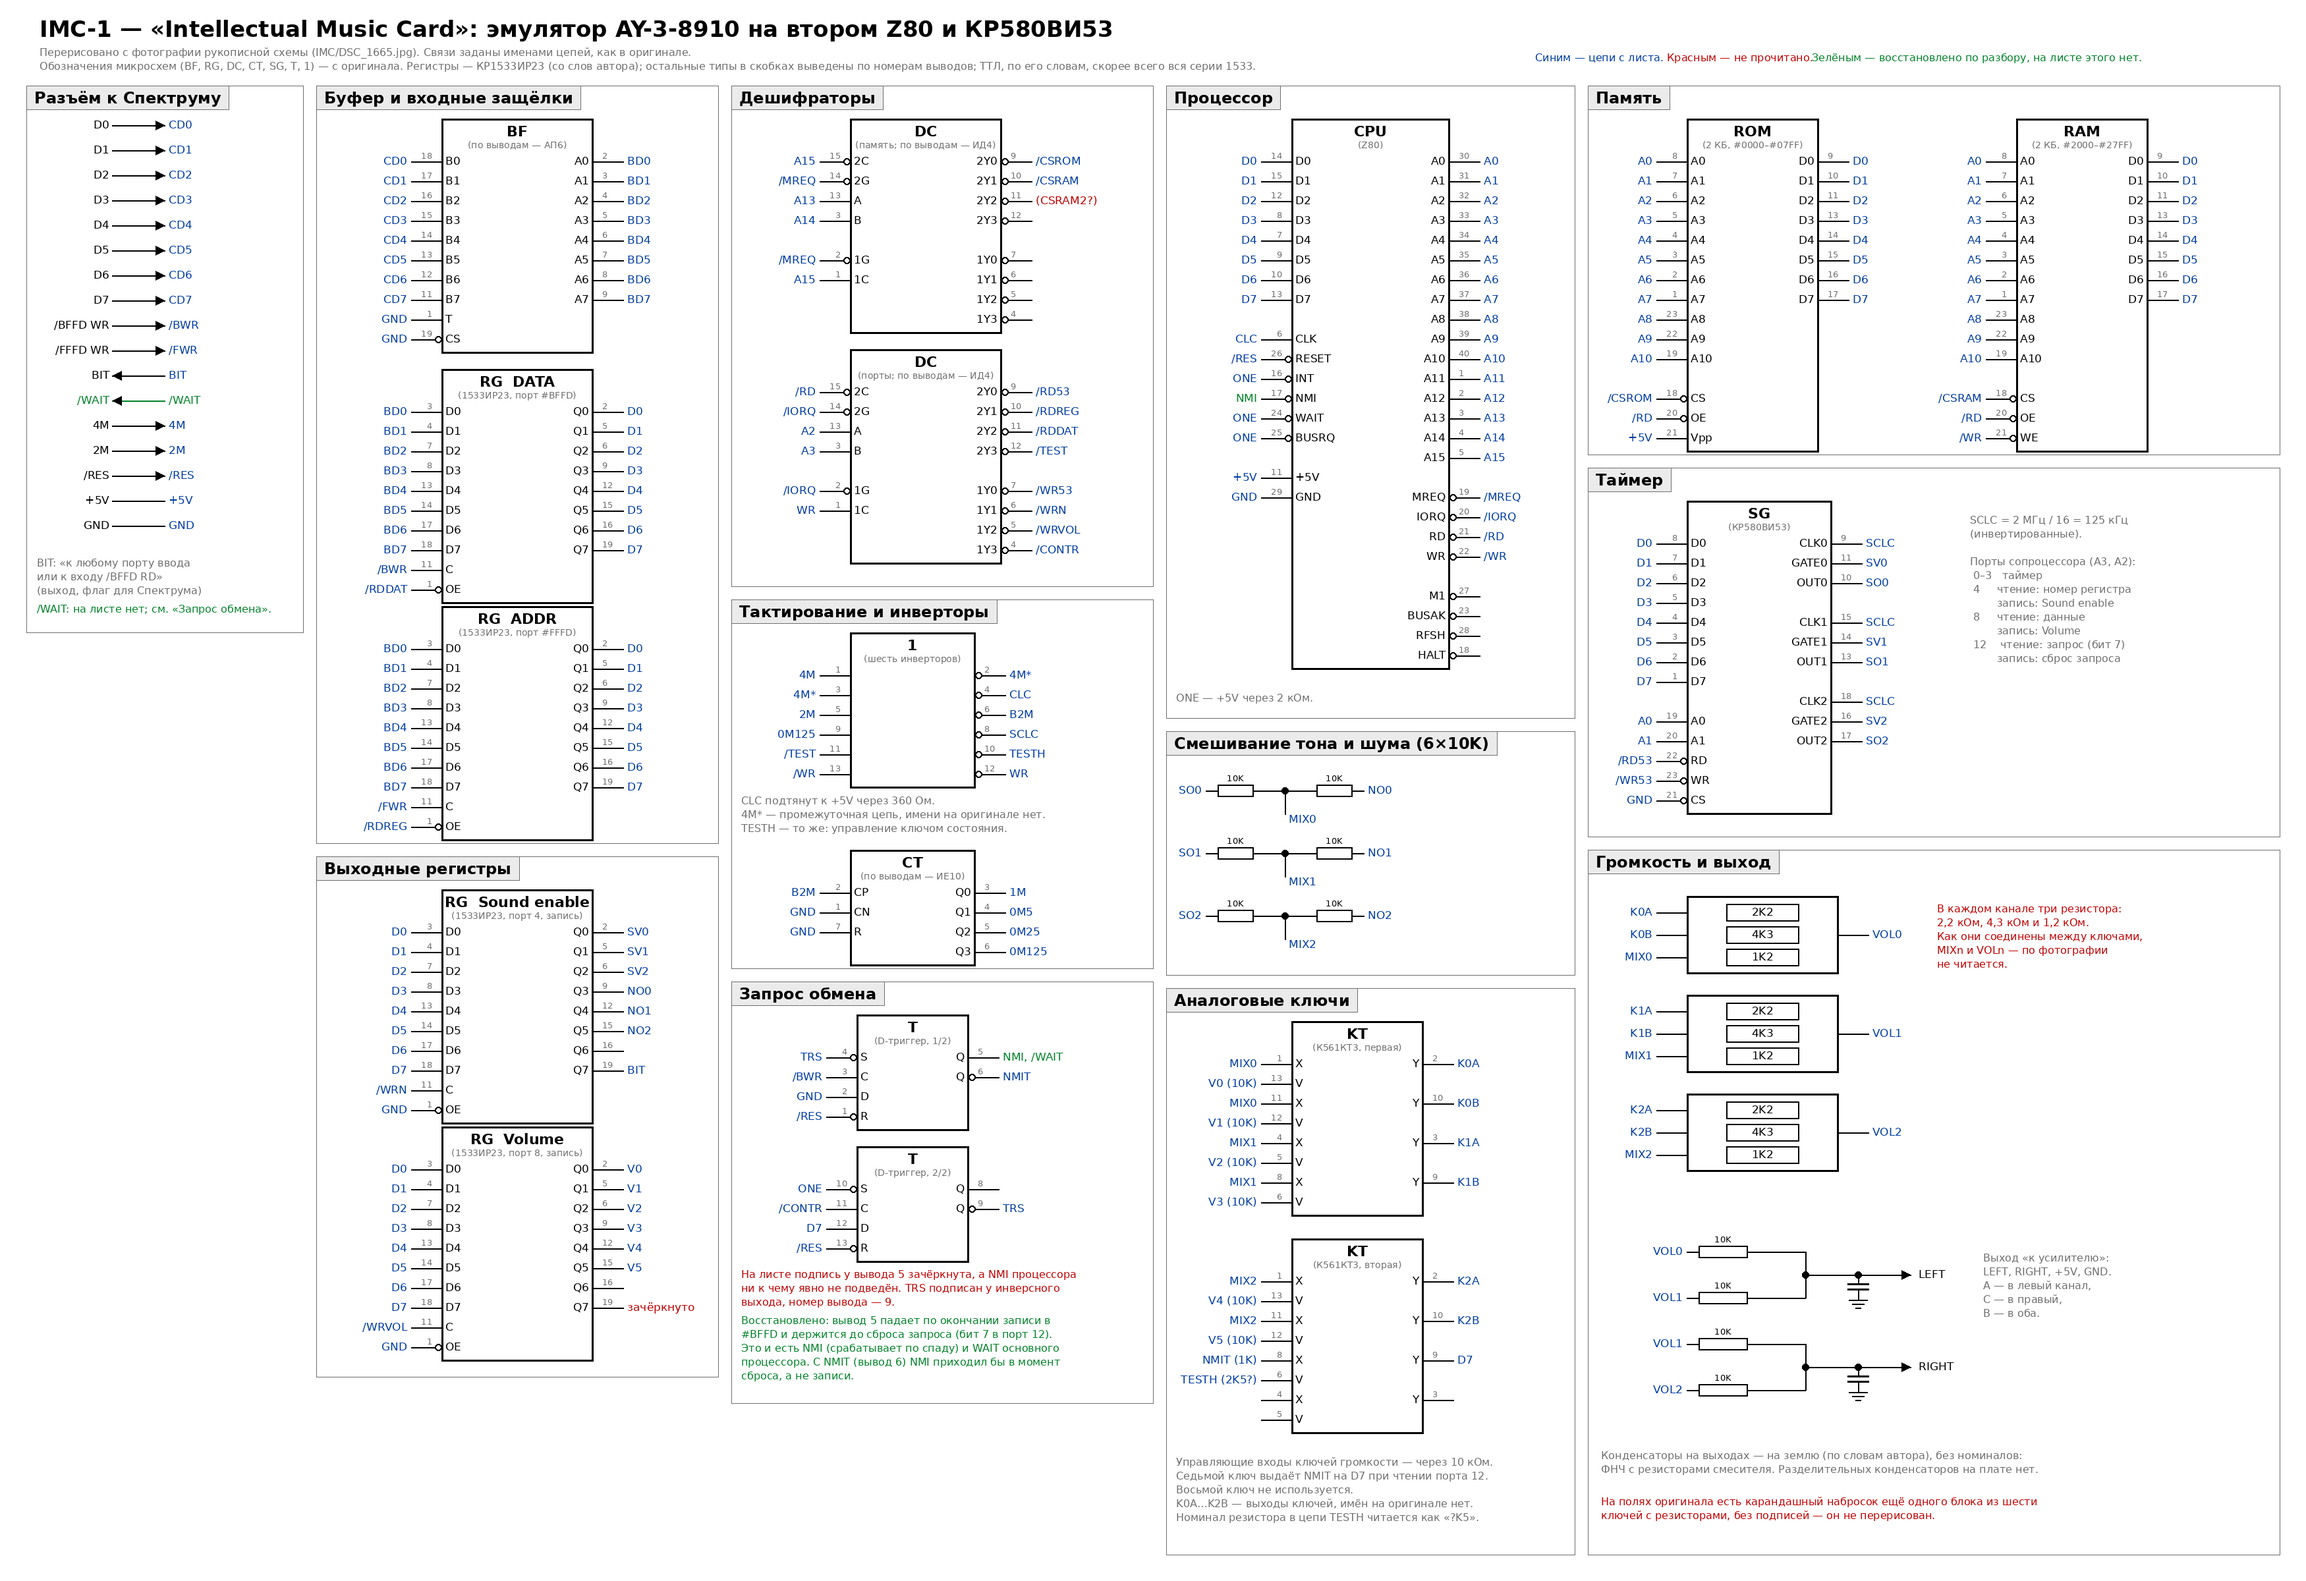
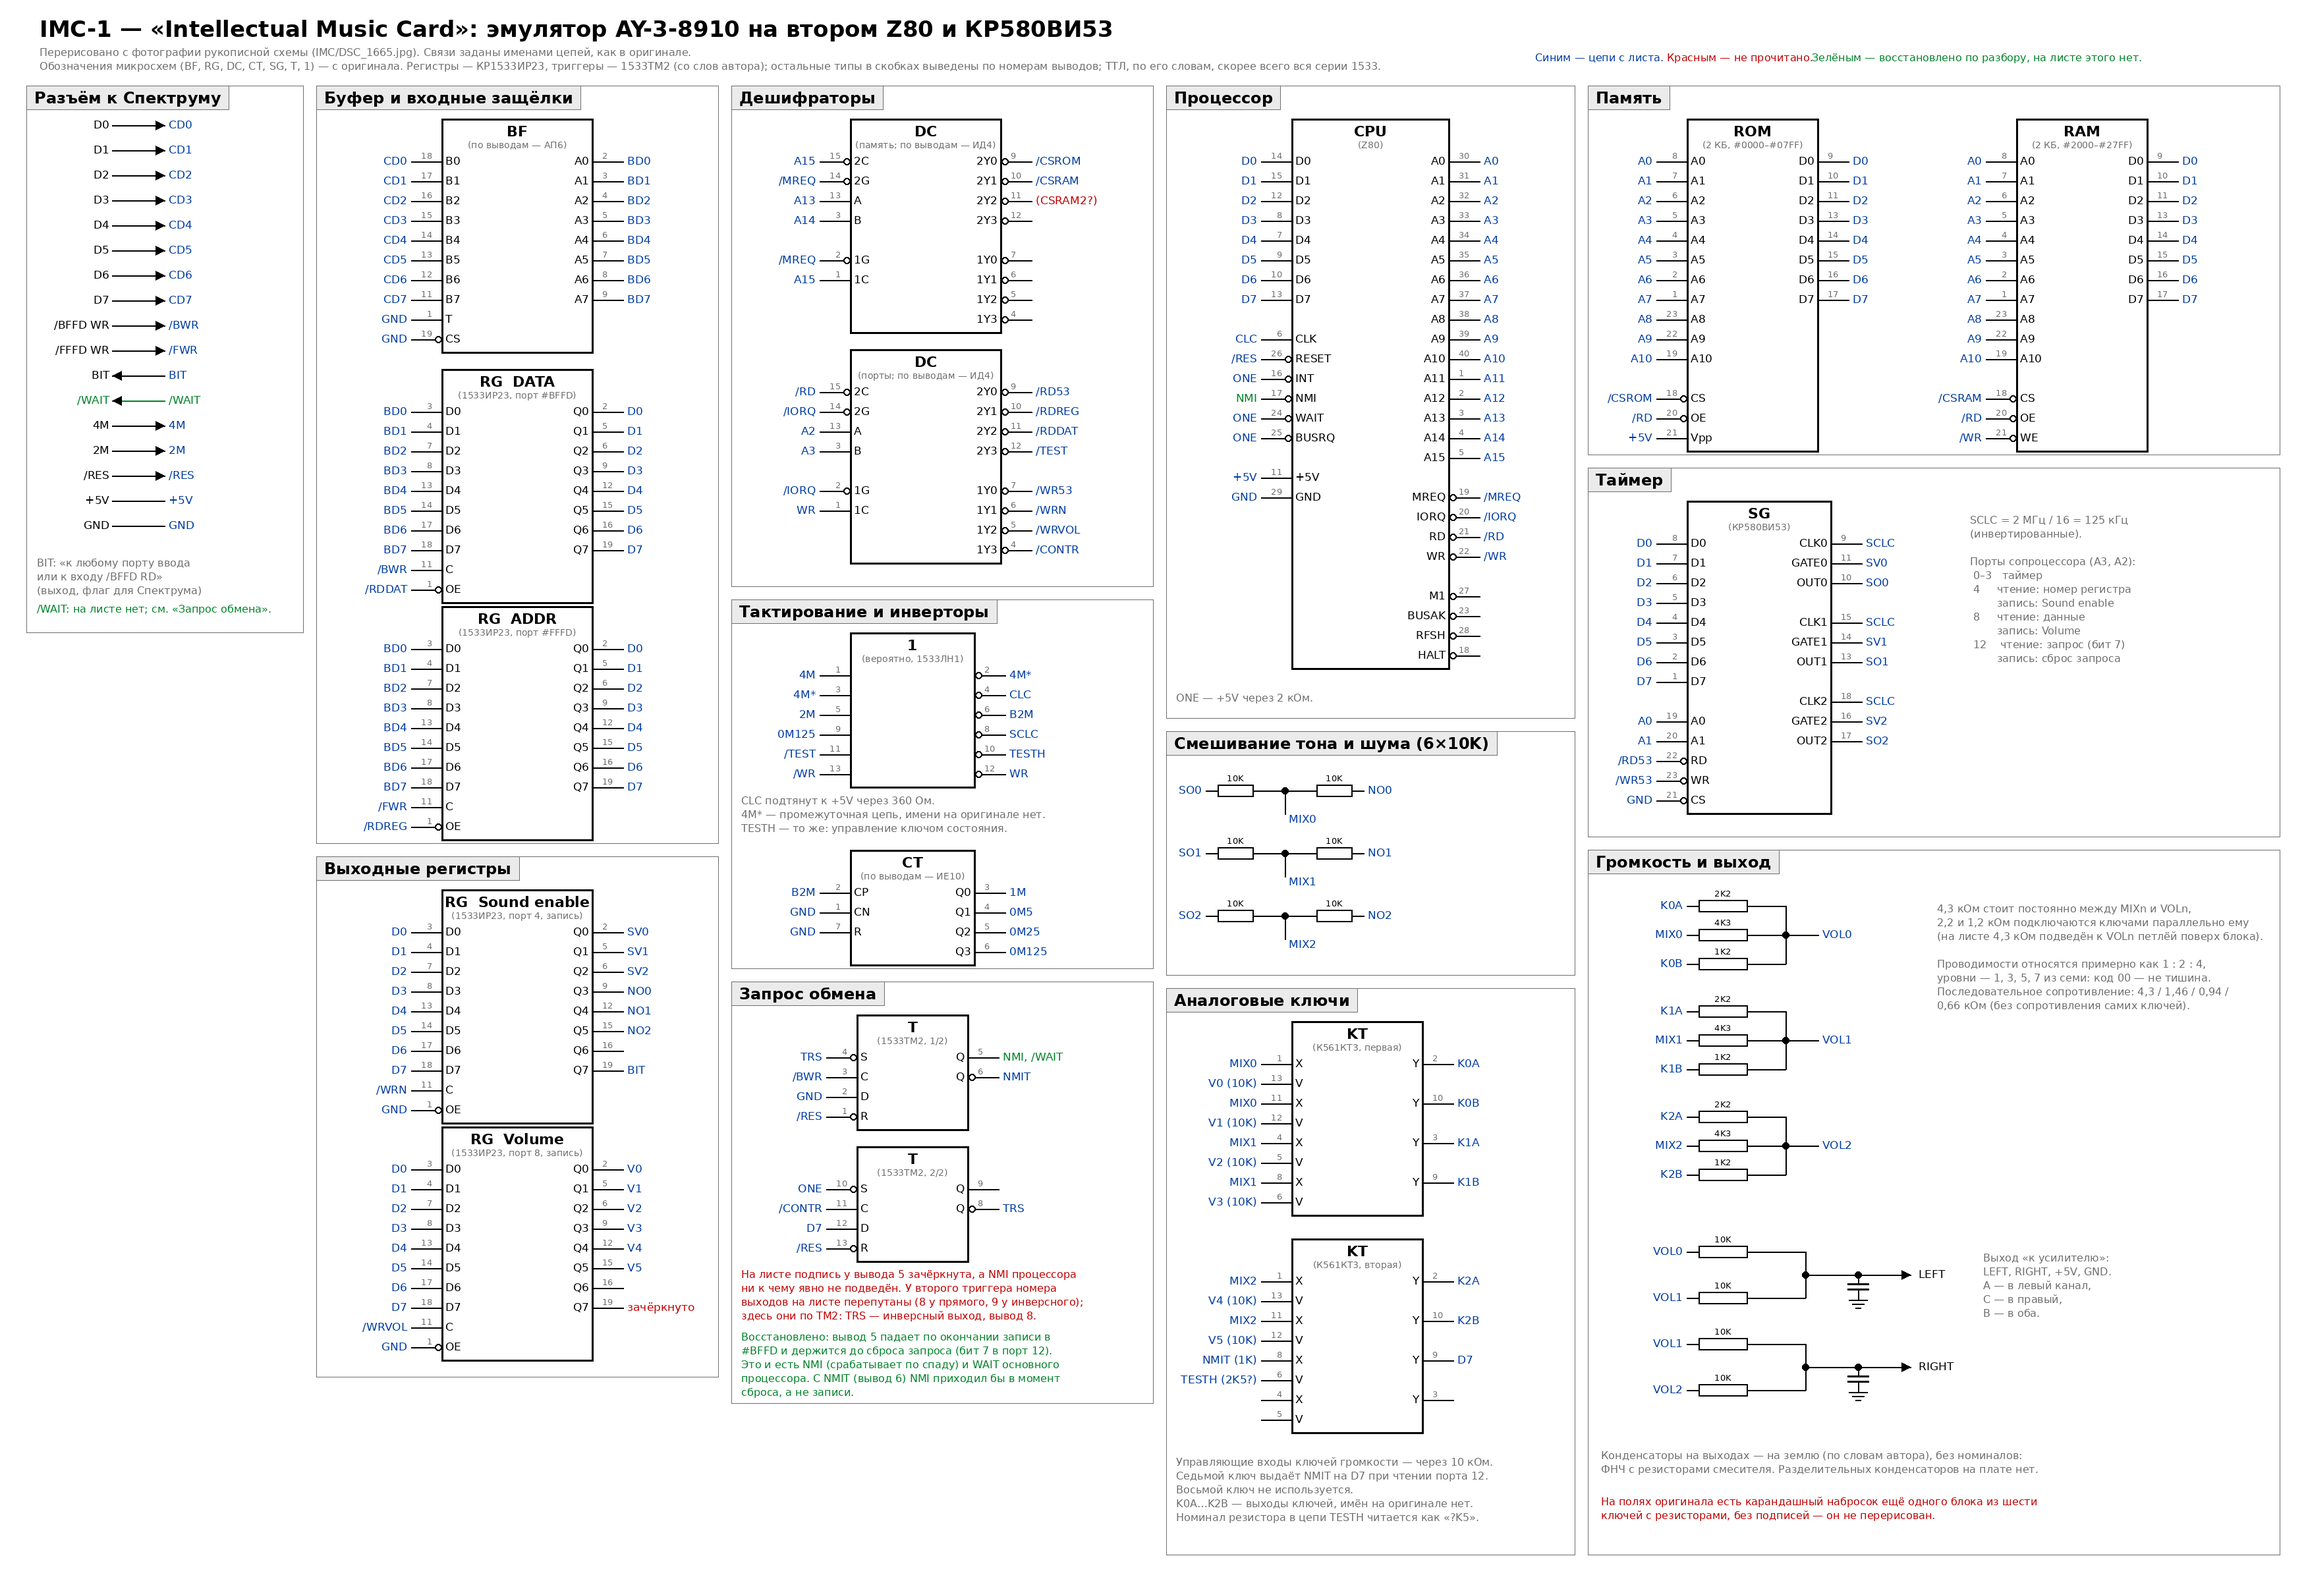
IMC-1: volume network wiring, 1533TM2 and 1533LN1
The volume resistors are readable on the photo after all: 4.3k sits
permanently between MIXn and VOLn, and the two switches of a channel
add 2.2k and 1.2k in parallel with it. The conductances are about
1 : 2 : 4, so this is a 3-bit DAC with the lowest bit always on: four
levels and no silence. A channel goes quiet only through the mixer
(register 7 drives the timer gates). With 5k in front and 10k behind,
the steps come out only 1-2 dB apart by calculation.

Per the author the dual flip-flop is almost certainly a 1533TM2 and the
inverters probably a 1533LN1. The sheet has the output pin numbers of
the second flip-flop swapped (8 on Q, 9 on /Q); the redrawn schematic
now follows the TM2 pinout, with TRS on the inverted output, pin 8,
which is also what the firmware needs.

Changed region(s): [[0.7163, 0.5625, 0.8097, 0.75], [0.8409, 0.5625, 0.9654, 0.6562], [0.3114, 0.8125, 0.4671, 0.875]]

diff --git a/IMC/draw_schematic.py b/IMC/draw_schematic.py
@@ -113,7 +113,7 @@ d.text((2330, 78), 'Синим — цепи с листа.   ', font=F_NOTE, fil
 d.text((2530, 78), 'Красным — не прочитано.   ', font=F_NOTE, fill=RED)
 d.text((2750, 78), 'Зелёным — восстановлено по разбору, на листе этого нет.', font=F_NOTE, fill=GREEN)
 note(60, 70, ['Перерисовано с фотографии рукописной схемы (IMC/DSC_1665.jpg). Связи заданы именами цепей, как в оригинале.',
-              'Обозначения микросхем (BF, RG, DC, CT, SG, T, 1) — с оригинала. Регистры — КР1533ИР23 (со слов автора); остальные типы в скобках выведены по номерам выводов; ТТЛ, по его словам, скорее всего вся серии 1533.'], GREY)
+              'Обозначения микросхем (BF, RG, DC, CT, SG, T, 1) — с оригинала. Регистры — КР1533ИР23, триггеры — 1533ТМ2 (со слов автора); остальные типы в скобках выведены по номерам выводов; ТТЛ, по его словам, скорее всего вся серии 1533.'], GREY)
 
 # ---------------------------------------------------------------- connector
 frame(40, 130, 420, 830, 'Разъём к Спектруму')
@@ -169,7 +169,7 @@ chip(1290, 530, 230, 'DC', '(порты; по выводам — ИД4)',
 
 # ---------------------------------------------------------------- clocks and inverters
 frame(1110, 910, 640, 560, 'Тактирование и инверторы')
-chip(1290, 960, 190, '1', '(шесть инверторов)',
+chip(1290, 960, 190, '1', '(вероятно, 1533ЛН1)',
      [(1, '', '4M'), (3, '', '4M*'), (5, '', '2M'), (9, '', '0M125'), (11, '', '/TEST'), (13, '', '/WR')],
      [(2, '/', '4M*'), (4, '/', 'CLC'), (6, '/', 'B2M'), (8, '/', 'SCLC'), (10, '/', 'TESTH'), (12, '/', 'WR')])
 note(1125, 1206, ['CLC подтянут к +5V через 360 Ом.', '4M* — промежуточная цепь, имени на оригинале нет.',
@@ -180,16 +180,17 @@ chip(1290, 1290, 190, 'CT', '(по выводам — ИЕ10)',
 
 # ---------------------------------------------------------------- request logic
 frame(1110, 1490, 640, 640, 'Запрос обмена')
-chip(1300, 1540, 170, 'T', '(D-триггер, 1/2)',
+chip(1300, 1540, 170, 'T', '(1533ТМ2, 1/2)',
      [(4, '/S', 'TRS'), (3, 'C', '/BWR'), (2, 'D', 'GND'), (1, '/R', '/RES')],
      [(5, 'Q', 'NMI, /WAIT', GREEN), (6, '/Q', 'NMIT')])
-chip(1300, 1740, 170, 'T', '(D-триггер, 2/2)',
+chip(1300, 1740, 170, 'T', '(1533ТМ2, 2/2)',
      [(10, '/S', 'ONE'), (11, 'C', '/CONTR'), (12, 'D', 'D7'), (13, '/R', '/RES')],
-     [(8, 'Q', ''), (9, '/Q', 'TRS')])
+     [(9, 'Q', ''), (8, '/Q', 'TRS')])
 note(1125, 1925, ['На листе подпись у вывода 5 зачёркнута, а NMI процессора',
-                  'ни к чему явно не подведён. TRS подписан у инверсного',
-                  'выхода, номер вывода — 9.'])
-note(1125, 1995, ['Восстановлено: вывод 5 падает по окончании записи в',
+                  'ни к чему явно не подведён. У второго триггера номера',
+                  'выходов на листе перепутаны (8 у прямого, 9 у инверсного);',
+                  'здесь они по ТМ2: TRS — инверсный выход, вывод 8.'])
+note(1125, 2020, ['Восстановлено: вывод 5 падает по окончании записи в',
                   '#BFFD и держится до сброса запроса (бит 7 в порт 12).',
                   'Это и есть NMI (срабатывает по спаду) и WAIT основного',
                   'процессора. С NMIT (вывод 6) NMI приходил бы в момент',
@@ -267,18 +268,24 @@ note(1785, 2210, ['Управляющие входы ключей громкос
 # ---------------------------------------------------------------- volume network and output
 frame(2410, 1290, 1050, 1070, 'Громкость и выход')
 for i in range(3):
-    yy = 1360 + i * 150
-    d.rectangle((2560, yy, 2790, yy + 118), outline=BLACK, width=3)
-    for k, r in enumerate(('2K2', '4K3', '1K2')):
-        d.rectangle((2620, yy + 12 + k * 34, 2730, yy + 38 + k * 34), outline=BLACK, width=2)
-        d.text((2675 - tw(r, F_PIN) / 2, yy + 14 + k * 34), r, font=F_PIN, fill=BLACK)
-    for k, n in enumerate(('K%dA' % i, 'K%dB' % i, 'MIX%d' % i)):
-        d.line((2514, yy + 25 + k * 34, 2560, yy + 25 + k * 34), fill=BLACK, width=2)
-        net(2514, yy + 25 + k * 34, n, right=True)
-    d.line((2790, yy + 59, 2836, yy + 59), fill=BLACK, width=2)
-    net(2836, yy + 59, 'VOL%d' % i)
-note(2940, 1370, ['В каждом канале три резистора:', '2,2 кОм, 4,3 кОм и 1,2 кОм.',
-                  'Как они соединены между ключами,', 'MIXn и VOLn — по фотографии', 'не читается.'])
+    yy = 1375 + i * 160
+    rows = (('K%dA' % i, '2K2'), ('MIX%d' % i, '4K3'), ('K%dB' % i, '1K2'))
+    for k, (n, r) in enumerate(rows):
+        net(2560, yy + k * 44, n, right=True)
+        e = res(2560, yy + k * 44, r, 110)
+        d.line((e, yy + k * 44, e + 40, yy + k * 44), fill=BLACK, width=2)
+    d.line((e + 40, yy, e + 40, yy + 88), fill=BLACK, width=2)
+    dot(e + 40, yy + 44)
+    d.line((e + 40, yy + 44, e + 90, yy + 44), fill=BLACK, width=2)
+    net(e + 90, yy + 44, 'VOL%d' % i)
+note(2940, 1370, ['4,3 кОм стоит постоянно между MIXn и VOLn,',
+                  '2,2 и 1,2 кОм подключаются ключами параллельно ему',
+                  '(на листе 4,3 кОм подведён к VOLn петлёй поверх блока).',
+                  '',
+                  'Проводимости относятся примерно как 1 : 2 : 4,',
+                  'уровни — 1, 3, 5, 7 из семи: код 00 — не тишина.',
+                  'Последовательное сопротивление: 4,3 / 1,46 / 0,94 /',
+                  '0,66 кОм (без сопротивления самих ключей).'], GREY)
 
 y0 = 1900
 for i, (src, dst) in enumerate((('VOL0', 'LEFT'), ('VOL1', 'LEFT'), ('VOL1', 'RIGHT'), ('VOL2', 'RIGHT'))):
